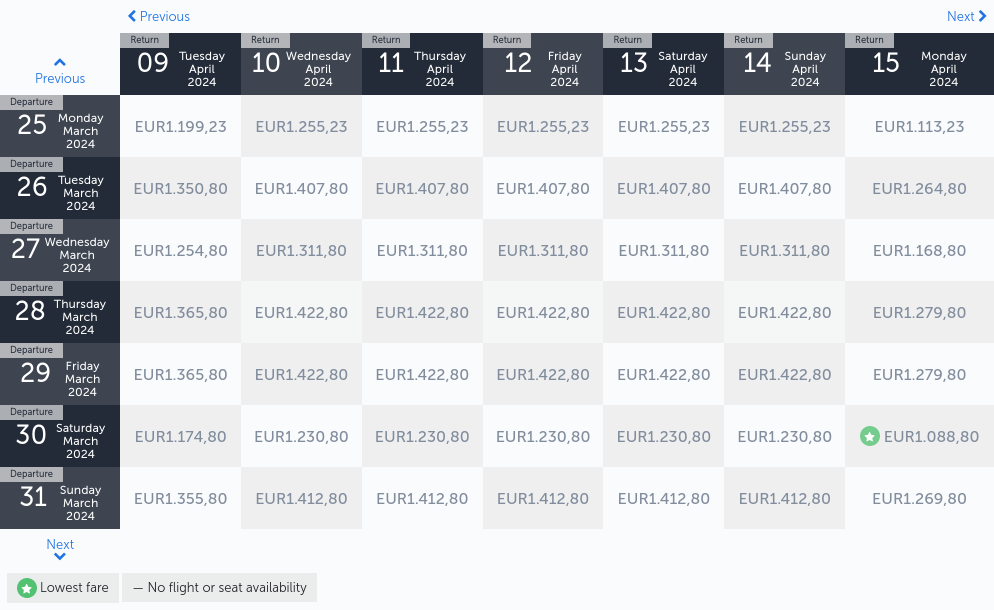
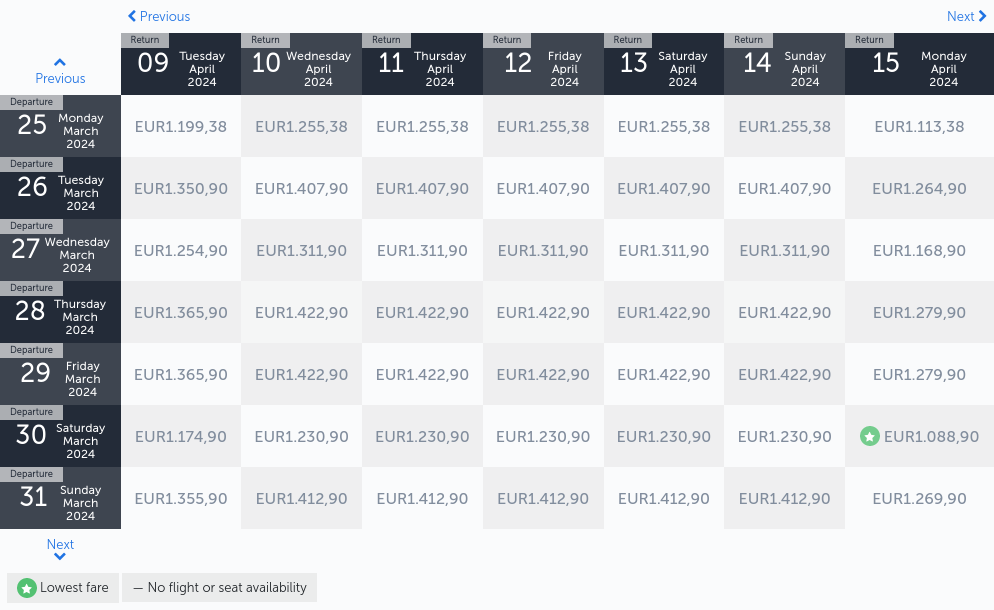
Latest scraping taiwan: Wed Jul 26 22:38:46 UTC 2023

diff --git a/scrapes/taiwan/turkish-airlines.md b/scrapes/taiwan/turkish-airlines.md
@@ -2,13 +2,13 @@
 | --- | --- |     |     |     |     |     |     | --- | --- | --- | --- | --- | --- |
 | Previous | Return<br><br>09 Tuesday April 2024 | Return<br><br>10 Wednesday April 2024 | Return<br><br>11 Thursday April 2024 | Return<br><br>12 Friday April 2024 | Return<br><br>13 Saturday April 2024 | Return<br><br>14 Sunday April 2024 | Return<br><br>15 Monday April 2024 |
 | --- | --- | --- | --- | --- | --- | --- | --- |
-| Departure<br><br>25 Monday March 2024 | 1.199,23 | 1.255,23 | 1.255,23 | 1.255,23 | 1.255,23 | 1.255,23 | 1.113,23 |
-| Departure<br><br>26 Tuesday March 2024 | 1.350,80 | 1.407,80 | 1.407,80 | 1.407,80 | 1.407,80 | 1.407,80 | 1.264,80 |
-| Departure<br><br>27 Wednesday March 2024 | 1.254,80 | 1.311,80 | 1.311,80 | 1.311,80 | 1.311,80 | 1.311,80 | 1.168,80 |
-| Departure<br><br>28 Thursday March 2024 | 1.365,80 | 1.422,80 | 1.422,80 | 1.422,80 | 1.422,80 | 1.422,80 | 1.279,80 |
-| Departure<br><br>29 Friday March 2024 | 1.365,80 | 1.422,80 | 1.422,80 | 1.422,80 | 1.422,80 | 1.422,80 | 1.279,80 |
-| Departure<br><br>30 Saturday March 2024 | 1.174,80 | 1.230,80 | 1.230,80 | 1.230,80 | 1.230,80 | 1.230,80 | 1.088,80 |
-| Departure<br><br>31 Sunday March 2024 | 1.355,80 | 1.412,80 | 1.412,80 | 1.412,80 | 1.412,80 | 1.412,80 | 1.269,80 |
+| Departure<br><br>25 Monday March 2024 | 1.199,38 | 1.255,38 | 1.255,38 | 1.255,38 | 1.255,38 | 1.255,38 | 1.113,38 |
+| Departure<br><br>26 Tuesday March 2024 | 1.350,90 | 1.407,90 | 1.407,90 | 1.407,90 | 1.407,90 | 1.407,90 | 1.264,90 |
+| Departure<br><br>27 Wednesday March 2024 | 1.254,90 | 1.311,90 | 1.311,90 | 1.311,90 | 1.311,90 | 1.311,90 | 1.168,90 |
+| Departure<br><br>28 Thursday March 2024 | 1.365,90 | 1.422,90 | 1.422,90 | 1.422,90 | 1.422,90 | 1.422,90 | 1.279,90 |
+| Departure<br><br>29 Friday March 2024 | 1.365,90 | 1.422,90 | 1.422,90 | 1.422,90 | 1.422,90 | 1.422,90 | 1.279,90 |
+| Departure<br><br>30 Saturday March 2024 | 1.174,90 | 1.230,90 | 1.230,90 | 1.230,90 | 1.230,90 | 1.230,90 | 1.088,90 |
+| Departure<br><br>31 Sunday March 2024 | 1.355,90 | 1.412,90 | 1.412,90 | 1.412,90 | 1.412,90 | 1.412,90 | 1.269,90 |
 | Next |
 | Lowest fare — No flight or seat availability |     |     |     |     |     |     |     |
 
